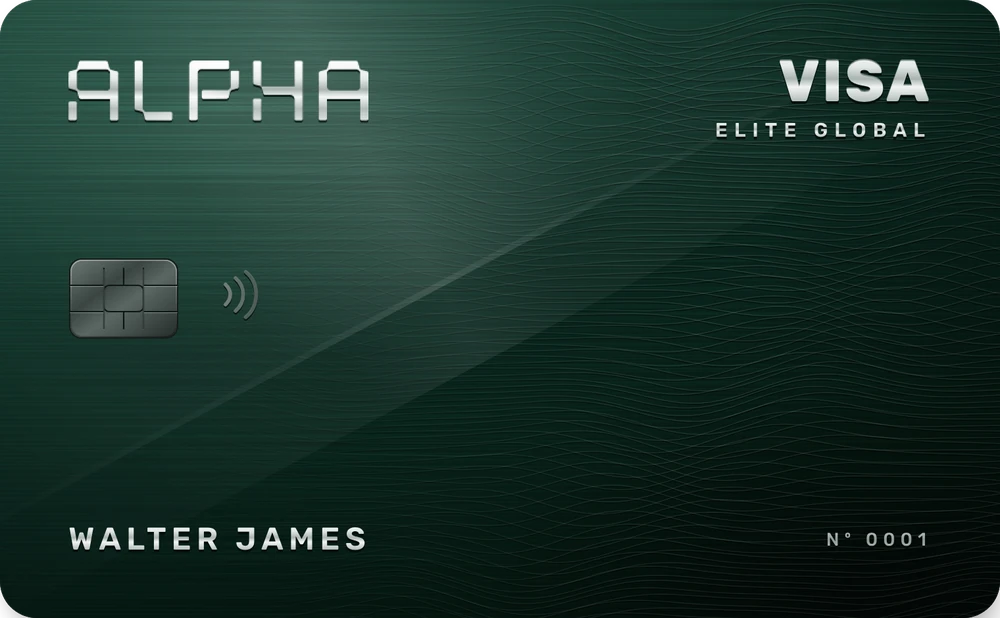
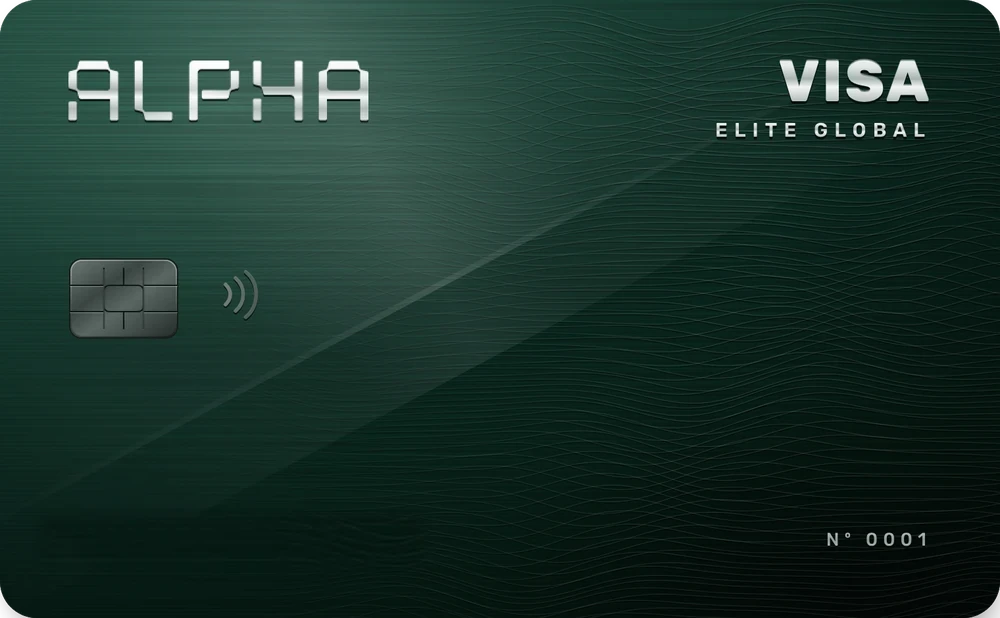
Card artwork without sample name; Sovereign fee line narrowed; globe city list

Changed region(s): [[0.062, 0.8301, 0.372, 0.8916]]

diff --git a/index.html b/index.html
@@ -2,7 +2,7 @@
 <title>Alpha · One account. Anywhere on earth.</title>
 <meta name="description" content="Escape the banking system. Take full control of your money: US dollars in any country, protection from inflation, one global card and high returns on your savings. Launching 2027.">
 <link rel="canonical" href="https://alpha.com.ky/">
-<script type="application/ld+json">{"@context": "https://schema.org", "@type": "FAQPage", "mainEntity": [{"@type": "Question", "name": "What is Alpha?", "acceptedAnswer": {"@type": "Answer", "text": "Alpha is one account that works anywhere on earth. It holds your money as fully reserved US dollars that only you control, with a card accepted in every country, free instant payments between Alpha accounts, local money in and out, and Earn on what you hold. It lets you escape the banking system and take full control of your money. Launching 2027."}}, {"@type": "Question", "name": "Can Alpha freeze, move or lend my money?", "acceptedAnswer": {"@type": "Answer", "text": "No. Your Spend balance sits in your own account under keys only you hold. Alpha has no master key, so nobody at Alpha can move, freeze, take or lend what you hold in Spend. Alpha can pause the services it runs, such as the card, local money or Earn, in an emergency, and must answer lawful requests through a logged process that needs several keyholders."}}, {"@type": "Question", "name": "Where is my money held?", "acceptedAnswer": {"@type": "Answer", "text": "As regulated, fully reserved digital dollars, backed one-to-one by US dollars and short-dated US government debt and redeemable at any time. Your balance stays in dollars wherever you live, which protects it from inflation and devaluation in your own currency, and converts to local money only at the moment you spend or send, at a rate you see first."}}, {"@type": "Question", "name": "Where does the card work and what does it cost?", "acceptedAnswer": {"@type": "Answer", "text": "The Alpha card is accepted in 195 countries and adds to your phone wallet. Elite Global is free and includes the card, free payments between Alpha accounts, local money in and out at 0.25%, Earn, pots, invoices and $AG rewards. Platinum Global is US$24.99 a month, or free if you hold US$1,000 of $AG, with a metal card, 0% Alpha fee on local money and higher Earn rate and limits. Sovereign Global is US$199 a month, or free if you hold US$25,000 of $AG, with 0% Alpha fee on everything, the highest Earn rate and limits, a heavy numbered card, a named person at Alpha and first access to every new country. Business plans start at US$199 a month."}}, {"@type": "Question", "name": "When does Alpha launch and how do I join?", "acceptedAnswer": {"@type": "Answer", "text": "Alpha launches in 2027, country by country, founding members first. Join the waitlist at alpha.com.ky: it takes 20 seconds, you get your place in the queue instantly, and each friend who joins through your link moves you up 50 places and earns you 25 $AG when you both open an account. The first 10,000 founding members get Platinum Global free for their first year."}}]}</script>
+<script type="application/ld+json">{"@context": "https://schema.org", "@type": "FAQPage", "mainEntity": [{"@type": "Question", "name": "What is Alpha?", "acceptedAnswer": {"@type": "Answer", "text": "Alpha is one account that works anywhere on earth. It holds your money as fully reserved US dollars that only you control, with a card accepted in every country, free instant payments between Alpha accounts, local money in and out, and Earn on what you hold. It lets you escape the banking system and take full control of your money. Launching 2027."}}, {"@type": "Question", "name": "Can Alpha freeze, move or lend my money?", "acceptedAnswer": {"@type": "Answer", "text": "No. Your Spend balance sits in your own account under keys only you hold. Alpha has no master key, so nobody at Alpha can move, freeze, take or lend what you hold in Spend. Alpha can pause the services it runs, such as the card, local money or Earn, in an emergency, and must answer lawful requests through a logged process that needs several keyholders."}}, {"@type": "Question", "name": "Where is my money held?", "acceptedAnswer": {"@type": "Answer", "text": "As regulated, fully reserved digital dollars, backed one-to-one by US dollars and short-dated US government debt and redeemable at any time. Your balance stays in dollars wherever you live, which protects it from inflation and devaluation in your own currency, and converts to local money only at the moment you spend or send, at a rate you see first."}}, {"@type": "Question", "name": "Where does the card work and what does it cost?", "acceptedAnswer": {"@type": "Answer", "text": "The Alpha card is accepted in 195 countries and adds to your phone wallet. Elite Global is free and includes the card, free payments between Alpha accounts, local money in and out at 0.25%, Earn, pots, invoices and $AG rewards. Platinum Global is US$24.99 a month, or free if you hold US$1,000 of $AG, with a metal card, 0% Alpha fee on local money and higher Earn rate and limits. Sovereign Global is US$199 a month, or free if you hold US$25,000 of $AG, with 0% Alpha fee on local money and bank invoices, the highest Earn rate and limits, a heavy numbered card, a named person at Alpha and first access to every new country. Business plans start at US$199 a month."}}, {"@type": "Question", "name": "When does Alpha launch and how do I join?", "acceptedAnswer": {"@type": "Answer", "text": "Alpha launches in 2027, country by country, founding members first. Join the waitlist at alpha.com.ky: it takes 20 seconds, you get your place in the queue instantly, and each friend who joins through your link moves you up 50 places and earns you 25 $AG when you both open an account. The first 10,000 founding members get Platinum Global free for their first year."}}]}</script>
 <script type="application/ld+json">{"@context": "https://schema.org", "@type": "Organization", "name": "Alpha", "legalName": "Alpha Corp", "url": "https://alpha.com.ky/", "logo": "https://alpha.com.ky/icon-512.png", "slogan": "One account. Anywhere on earth.", "description": "Escape the banking system. Take full control of your money: US dollars in any country, protection from inflation, one global card and high returns on your savings. Launching 2027.", "email": "hello@alpha.com.ky", "address": {"@type": "PostalAddress", "addressCountry": "KY"}, "contactPoint": [{"@type": "ContactPoint", "contactType": "customer support", "email": "support@alpha.com.ky"}, {"@type": "ContactPoint", "contactType": "public relations", "email": "press@alpha.com.ky"}]}</script><script type="application/ld+json">{"@context": "https://schema.org", "@type": "WebSite", "name": "Alpha", "url": "https://alpha.com.ky/"}</script>
 <meta name="theme-color" content="#050C0A">
 <meta property="og:type" content="website"><meta property="og:site_name" content="Alpha"><meta property="og:title" content="Alpha — One account. Anywhere on earth."><meta property="og:description" content="Escape the banking system. Take full control of your money: US dollars in any country, one global card, high returns on your savings."><meta property="og:url" content="https://alpha.com.ky/"><meta property="og:image" content="https://alpha.com.ky/og.png"><meta property="og:image:width" content="1200"><meta property="og:image:height" content="630">
@@ -840,7 +840,7 @@ footer a{color:var(--muted);text-decoration:none}
   <div class="plans">
    <div class="plan rv d1"><h3>Elite Global</h3><div class="price">Free</div><ul><li>Premium Elite Global card</li><li>Free payments between Alpha accounts</li><li>Local money in and out at 0.25%</li><li>Earn, pots, invoices, $AG rewards</li></ul></div>
    <div class="plan hi rv d2"><h3>Platinum Global</h3><div class="price">US$24.99<small> / month</small></div><ul><li>Metal card</li><li>0% Alpha fee on local money</li><li>Higher Earn rate and limits</li><li>Or hold US$1,000 of $AG instead of paying</li></ul></div>
-   <div class="plan rv d3"><h3>Sovereign Global</h3><div class="price">US$199<small> / month</small></div><ul><li>Heavy numbered card, engraved to you</li><li>0% Alpha fee on everything</li><li>The highest Earn rate and limits</li><li>A named person at Alpha, any hour</li><li>First into every new country</li><li>Or hold US$25,000 of $AG instead of paying</li></ul></div>
+   <div class="plan rv d3"><h3>Sovereign Global</h3><div class="price">US$199<small> / month</small></div><ul><li>Heavy numbered card, engraved to you</li><li>0% Alpha fee on local money and bank invoices</li><li>The highest Earn rate and limits</li><li>A named person at Alpha, any hour</li><li>First into every new country</li><li>Or hold US$25,000 of $AG instead of paying</li></ul></div>
   </div>
  </section>
 
@@ -965,7 +965,7 @@ if(!RM){(function spin(t){if(!drag){var base=Math.round(ry/180)*180,idle=14+Math
 var DPR=Math.min(2,devicePixelRatio||1);
 function ll(lat,lon){var la=lat*Math.PI/180,lo=lon*Math.PI/180;return [Math.cos(la)*Math.cos(lo),Math.sin(la),-Math.cos(la)*Math.sin(lo)]}
 var TILT=0.38;function tiltP(p,T){var cs=Math.cos(T),sn=Math.sin(T);return [p[0],p[1]*cs-p[2]*sn,p[1]*sn+p[2]*cs]}
-var hubs=[['London',51.5,-0.1],['New York',40.7,-74],['Washington',38.9,-77],['Los Angeles',34.1,-118.2],['Paris',48.9,2.4],['Madrid',40.4,-3.7],['Berlin',52.5,13.4],['Lisbon',38.7,-9.1],['Grand Cayman',19.3,-81.4],['Nassau',25.1,-77.3],['Bangkok',13.8,100.5],['Sydney',-33.9,151.2],['Perth',-31.9,115.9],['Singapore',1.3,103.8],['Hong Kong',22.3,114.2],['Shanghai',31.2,121.5],['Lagos',6.5,3.4],['São Paulo',-23.5,-46.6],['Mumbai',19.1,72.9],['Dubai',25.2,55.3],['Nairobi',-1.3,36.8],['Toronto',43.7,-79.4],['Mexico City',19.4,-99.1],['Cape Town',-33.9,18.4],['Tokyo',35.7,139.7],['Buenos Aires',-34.6,-58.4],['Seoul',37.6,127],['Moscow',55.8,37.6],['Taipei',25,121.5],['Jakarta',-6.2,106.8],['Manila',14.6,121],['Kuala Lumpur',3.1,101.7],['Ho Chi Minh City',10.8,106.7],['New Delhi',28.6,77.2],['Riyadh',24.7,46.7],['Tel Aviv',32.1,34.8],['Istanbul',41,28.9],['Johannesburg',-26.2,28],['Cairo',30,31.2],['Accra',5.6,-0.2],['Zurich',47.4,8.5],['Amsterdam',52.4,4.9],['Milan',45.5,9.2],['Stockholm',59.3,18.1],['Dublin',53.3,-6.3],['Miami',25.8,-80.2],['Chicago',41.9,-87.6],['San Francisco',37.8,-122.4],['Vancouver',49.3,-123.1],['Panama City',9,-79.5],['Bogotá',4.7,-74.1],['Lima',-12,-77],['Santiago',-33.4,-70.7],['Auckland',-36.8,174.8],['Melbourne',-37.8,145],['Beijing',39.9,116.4]];
+var hubs=[['London',51.5,-0.1],['New York',40.7,-74],['Washington',38.9,-77],['Los Angeles',34.1,-118.2],['Paris',48.9,2.4],['Madrid',40.4,-3.7],['Berlin',52.5,13.4],['Lisbon',38.7,-9.1],['Grand Cayman',19.3,-81.4],['Nassau',25.1,-77.3],['Bangkok',13.8,100.5],['Sydney',-33.9,151.2],['Perth',-31.9,115.9],['Singapore',1.3,103.8],['Hong Kong',22.3,114.2],['Shanghai',31.2,121.5],['Lagos',6.5,3.4],['São Paulo',-23.5,-46.6],['Mumbai',19.1,72.9],['Dubai',25.2,55.3],['Nairobi',-1.3,36.8],['Toronto',43.7,-79.4],['Cape Town',-33.9,18.4],['Tokyo',35.7,139.7],['Buenos Aires',-34.6,-58.4],['Seoul',37.6,127],['Moscow',55.8,37.6],['Taipei',25,121.5],['Jakarta',-6.2,106.8],['Manila',14.6,121],['Kuala Lumpur',3.1,101.7],['Ho Chi Minh City',10.8,106.7],['New Delhi',28.6,77.2],['Riyadh',24.7,46.7],['Tel Aviv',32.1,34.8],['Istanbul',41,28.9],['Johannesburg',-26.2,28],['Cairo',30,31.2],['Accra',5.6,-0.2],['Zurich',47.4,8.5],['Amsterdam',52.4,4.9],['Milan',45.5,9.2],['Stockholm',59.3,18.1],['Dublin',53.3,-6.3],['Miami',25.8,-80.2],['Chicago',41.9,-87.6],['San Francisco',37.8,-122.4],['Vancouver',49.3,-123.1],['Panama City',9,-79.5],['Bogotá',4.7,-74.1],['Lima',-12,-77],['Santiago',-33.4,-70.7],['Auckland',-36.8,174.8],['Melbourne',-37.8,145],['Beijing',39.9,116.4]];
 var caps=[['Kyiv',50.5,30.5],['Minsk',53.9,27.6],['Warsaw',52.2,21],['Prague',50.1,14.4],['Vienna',48.2,16.4],['Bratislava',48.1,17.1],['Budapest',47.5,19],['Bucharest',44.4,26.1],['Sofia',42.7,23.3],['Belgrade',44.8,20.5],['Zagreb',45.8,16],['Ljubljana',46.1,14.5],['Sarajevo',43.9,18.4],['Podgorica',42.4,19.3],['Skopje',42,21.4],['Tirana',41.3,19.8],['Pristina',42.7,21.2],['Athens',38,23.7],['Nicosia',35.2,33.4],['Ankara',39.9,32.9],['Tbilisi',41.7,44.8],['Yerevan',40.2,44.5],['Baku',40.4,49.9],['Chișinău',47,28.9],['Vilnius',54.7,25.3],['Riga',56.9,24.1],['Tallinn',59.4,24.8],['Helsinki',60.2,24.9],['Oslo',59.9,10.8],['Copenhagen',55.7,12.6],['Reykjavík',64.1,-21.9],['Brussels',50.9,4.4],['Luxembourg',49.6,6.1],['Bern',46.9,7.4],['Vaduz',47.1,9.5],['Rome',41.9,12.5],['Valletta',35.9,14.5],['Monaco',43.7,7.4],['Andorra la Vella',42.5,1.5],['San Marino',43.9,12.4],['Rabat',34,-6.8],['Algiers',36.8,3.1],['Tunis',36.8,10.2],['Tripoli',32.9,13.2],['Khartoum',15.6,32.5],['Juba',4.9,31.6],['Addis Ababa',9,38.7],['Asmara',15.3,38.9],['Djibouti',11.6,43.1],['Mogadishu',2,45.3],['Kampala',0.3,32.6],['Kigali',-1.9,30.1],['Gitega',-3.4,29.9],['Dodoma',-6.2,35.7],['Lusaka',-15.4,28.3],['Harare',-17.8,31],['Lilongwe',-14,33.8],['Maputo',-25.9,32.6],['Antananarivo',-18.9,47.5],['Port Louis',-20.2,57.5],['Victoria',-4.6,55.5],['Moroni',-11.7,43.3],['Pretoria',-25.7,28.2],['Gaborone',-24.7,25.9],['Windhoek',-22.6,17.1],['Maseru',-29.3,27.5],['Mbabane',-26.3,31.1],['Luanda',-8.8,13.2],['Kinshasa',-4.3,15.3],['Brazzaville',-4.2,15.2],['Libreville',0.4,9.5],['Malabo',3.8,8.8],['Yaoundé',3.9,11.5],['Bangui',4.4,18.6],["N'Djamena",12.1,15],['Abuja',9.1,7.5],['Niamey',13.5,2.1],['Bamako',12.6,-8],['Ouagadougou',12.4,-1.5],['Lomé',6.1,1.2],['Porto-Novo',6.5,2.6],['Yamoussoukro',6.8,-5.3],['Monrovia',6.3,-10.8],['Freetown',8.5,-13.2],['Conakry',9.5,-13.7],['Bissau',11.9,-15.6],['Dakar',14.7,-17.4],['Banjul',13.5,-16.6],['Nouakchott',18.1,-16],['Praia',14.9,-23.5],['São Tomé',0.3,6.7],['Baghdad',33.3,44.4],['Tehran',35.7,51.4],['Kuwait City',29.4,48],['Manama',26.2,50.6],['Doha',25.3,51.5],['Abu Dhabi',24.5,54.4],['Muscat',23.6,58.5],["Sana'a",15.4,44.2],['Amman',32,35.9],['Damascus',33.5,36.3],['Beirut',33.9,35.5],['Kabul',34.5,69.2],['Islamabad',33.7,73],['Tashkent',41.3,69.3],['Astana',51.2,71.4],['Bishkek',42.9,74.6],['Dushanbe',38.6,68.8],['Ashgabat',37.9,58.4],['Kathmandu',27.7,85.3],['Thimphu',27.5,89.6],['Dhaka',23.8,90.4],['Colombo',6.9,79.9],['Malé',4.2,73.5],['Naypyidaw',19.8,96.1],['Vientiane',17.9,102.6],['Phnom Penh',11.6,104.9],['Hanoi',21,105.8],['Ulaanbaatar',47.9,106.9],['Pyongyang',39,125.8],['Bandar Seri Begawan',4.9,114.9],['Dili',-8.6,125.6],['Canberra',-35.3,149.1],['Wellington',-41.3,174.8],['Port Moresby',-9.4,147.2],['Suva',-18.1,178.4],['Honiara',-9.4,160],['Port Vila',-17.7,168.3],["Nuku'alofa",-21.1,-175.2],['Apia',-13.8,-171.8],['Tarawa',1.4,173],['Majuro',7.1,171.4],['Palikir',6.9,158.2],['Ngerulmud',7.5,134.6],['Funafuti',-8.5,179.2],['Yaren',-0.5,166.9],['Ottawa',45.4,-75.7],['Havana',23.1,-82.4],['Kingston',18,-76.8],['Port-au-Prince',18.5,-72.3],['Santo Domingo',18.5,-69.9],['Belmopan',17.3,-88.8],['Guatemala City',14.6,-90.5],['San Salvador',13.7,-89.2],['Tegucigalpa',14.1,-87.2],['Managua',12.1,-86.3],['San José',9.9,-84.1],['Caracas',10.5,-66.9],['Georgetown',6.8,-58.2],['Paramaribo',5.9,-55.2],['Quito',-0.2,-78.5],['La Paz',-16.5,-68.1],['Asunción',-25.3,-57.6],['Montevideo',-34.9,-56.2],['Brasília',-15.8,-47.9],['Bridgetown',13.1,-59.6],['Port of Spain',10.7,-61.5],['Castries',14,-61],['Kingstown',13.2,-61.2],["St George's",12.1,-61.8],['Roseau',15.3,-61.4],["St John's",17.1,-61.8],['Basseterre',17.3,-62.7]];
 var cities=hubs.map(function(c){return {n:c[0],v:ll(c[1],c[2]),h:1,ph:Math.random()*6.28}}).concat(caps.map(function(c){return {n:c[0],v:ll(c[1],c[2]),h:0,ph:Math.random()*6.28}}));
[1 lines of base64/hex data omitted]

diff --git a/faq.html b/faq.html
@@ -541,7 +541,7 @@ footer a{color:var(--muted);text-decoration:none}
 @media (max-width:760px){.fwrap{grid-template-columns:1fr;gap:16px}.fnav{position:static;flex-direction:row;flex-wrap:wrap;gap:6px}.fnav a{font-size:12.5px;padding:7px 11px;border-color:rgba(255,255,255,.08)}.fgroup{margin-bottom:26px}.fask{padding:20px}}
 </style>
 <style>.sub main{padding-top:40px;min-height:70vh}.sub section{padding-top:20px}body::after{display:none}</style>
-<script type="application/ld+json">{"@context": "https://schema.org", "@type": "FAQPage", "mainEntity": [{"@type": "Question", "name": "How is Alpha different from my bank?", "acceptedAnswer": {"@type": "Answer", "text": "Alpha does everything you use a bank for: hold your money, pay, get paid, earn. The difference is where your money lives. At a bank it is a deposit on their balance sheet, which they lend out and can freeze. On Alpha it is held as fully reserved digital dollars, redeemable one-to-one, in an account only you control. Nobody, including Alpha, can read it, move it or lend it."}}, {"@type": "Question", "name": "Where is my money, exactly?", "acceptedAnswer": {"@type": "Answer", "text": "In your own account on the ledger, held as regulated, fully reserved digital dollars backed one-to-one by US dollars and short-dated US government debt. Alpha never holds it. The ledger proves every second that it holds every dollar it owes, and anyone can check."}}, {"@type": "Question", "name": "Can Alpha freeze, move or lend my money?", "acceptedAnswer": {"@type": "Answer", "text": "No. Your Spend balance sits under keys only you hold, and Alpha has no master key. Alpha can pause the services it runs, the card, local money or Earn, in an emergency, and never your Spend balance."}}, {"@type": "Question", "name": "Can I get my money out whenever I want?", "acceptedAnswer": {"@type": "Answer", "text": "Yes. Move it anywhere, any time, with your passkey. You never need Alpha's permission."}}, {"@type": "Question", "name": "Why dollars?", "acceptedAnswer": {"@type": "Answer", "text": "Because the dollar is the currency the world settles in. Your balance stays in dollars wherever you live, so inflation or a falling currency at home doesn't touch it, and it converts to local money only at the moment you spend or send, at a rate you see first."}}, {"@type": "Question", "name": "Does my money earn anything?", "acceptedAnswer": {"@type": "Answer", "text": "Yes, if you opt in. Earn pays a floating rate on fully reserved dollars, and your money is back in Spend within 48 hours whenever you ask. Platinum Global and Sovereign Global carry higher Earn rates and limits."}}, {"@type": "Question", "name": "Can Alpha see my payments?", "acceptedAnswer": {"@type": "Answer", "text": "No. Your balance and your payments are sealed on your phone before they leave it, and unlock only on your own devices. You hold the only key to the sealed record. Not a partner, not a bank, not Alpha can read it."}}, {"@type": "Question", "name": "What if I lose my phone?", "acceptedAnswer": {"@type": "Answer", "text": "Sign in on a new phone with Face ID and a recovery contact. Lose every device and any two of your three guardians, your backup key, a person you trust and Alpha, can let you back in after a 72-hour delay you can stop from any device if it wasn't you."}}, {"@type": "Question", "name": "Is there a password?", "acceptedAnswer": {"@type": "Answer", "text": "No. A passkey on your own phone, approved with Face ID, authorises every payment. There is no password to leak, no reset link to phish and no code by text to intercept. Sending to someone new asks for Face ID a second time."}}, {"@type": "Question", "name": "What happens if someone steals my card?", "acceptedAnswer": {"@type": "Answer", "text": "Freeze it in one tap. The card spends only from its own Card balance, topped up from Spend under a limit you set, so the rest of your money is never exposed."}}, {"@type": "Question", "name": "What does it cost?", "acceptedAnswer": {"@type": "Answer", "text": "The account and card are free. Payments between Alpha accounts are free. Local money in or out costs 0.25% at the real rate, or 0% on Platinum Global and Sovereign Global. There is no foreign card fee. Every $AG you earn is valued at US$1 against any Alpha fee."}}, {"@type": "Question", "name": "What are the plans?", "acceptedAnswer": {"@type": "Answer", "text": "Elite Global is free: the card, free payments, Earn, pots, invoices and $AG rewards. Platinum Global is US$24.99 a month, or free if you hold US$1,000 of $AG: a metal card, 0% Alpha fee on local money, higher Earn rate and limits. Sovereign Global is US$199 a month, or free if you hold US$25,000 of $AG: a heavy numbered card engraved to you, 0% Alpha fee on everything, the highest Earn rate and limits, a named person at Alpha any hour, and first access to every new country."}}, {"@type": "Question", "name": "What is $AG?", "acceptedAnswer": {"@type": "Answer", "text": "Alpha's reward. You earn it on card spending and for bringing friends. Every $AG is valued at US$1 across Alpha and pays your fees or your plan. It is earned, not sold, and it never expires."}}, {"@type": "Question", "name": "Is there a business account?", "acceptedAnswer": {"@type": "Answer", "text": "Yes. Business is US$199 a month for up to five people with team cards, invoices, bulk payouts and roles. Scale is US$999 a month for up to 25 people with approvals above a threshold, accounting exports, API and priority support. Enterprise is custom, with key rotation, a custody policy and dedicated support."}}, {"@type": "Question", "name": "Which countries?", "acceptedAnswer": {"@type": "Answer", "text": "The card works everywhere the card network is accepted, which is every country on earth, and payments between Alpha accounts reach any country in under a second. Opening an account depends on your country of residence; join the waitlist and we'll tell you when yours is live."}}, {"@type": "Question", "name": "How fast is a payment?", "acceptedAnswer": {"@type": "Answer", "text": "Between Alpha accounts, under a second, any hour of any day. To an account outside Alpha, as fast as the receiving system allows, with the exact amount shown before you approve."}}, {"@type": "Question", "name": "How do I get paid?", "acceptedAnswer": {"@type": "Answer", "text": "Send an invoice, share your @handle, or give out your own account details. Clients pay by bank or card in their own currency and you receive dollars, same day. Payments from other Alpha accounts land instantly and free."}}, {"@type": "Question", "name": "Can I pay bills and rent in my own currency?", "acceptedAnswer": {"@type": "Answer", "text": "Yes. Local money goes out to any local bank account at a rate you see before you tap, 0.25% on Elite Global and 0% on the paid plans. Your balance stays in dollars until the moment you send."}}, {"@type": "Question", "name": "When does it launch?", "acceptedAnswer": {"@type": "Answer", "text": "2027, country by country. Founding members first."}}, {"@type": "Question", "name": "How does the waitlist work?", "acceptedAnswer": {"@type": "Answer", "text": "Join in 20 seconds and you get your place in the queue instantly, plus an invite link. Each friend who joins through it moves you up 50 places and earns you 25 $AG when you both open an account. The first 10,000 founding members get Platinum Global free for their first year."}}]}</script></head><body class="sub">
+<script type="application/ld+json">{"@context": "https://schema.org", "@type": "FAQPage", "mainEntity": [{"@type": "Question", "name": "How is Alpha different from my bank?", "acceptedAnswer": {"@type": "Answer", "text": "Alpha does everything you use a bank for: hold your money, pay, get paid, earn. The difference is where your money lives. At a bank it is a deposit on their balance sheet, which they lend out and can freeze. On Alpha it is held as fully reserved digital dollars, redeemable one-to-one, in an account only you control. Nobody, including Alpha, can read it, move it or lend it."}}, {"@type": "Question", "name": "Where is my money, exactly?", "acceptedAnswer": {"@type": "Answer", "text": "In your own account on the ledger, held as regulated, fully reserved digital dollars backed one-to-one by US dollars and short-dated US government debt. Alpha never holds it. The ledger proves every second that it holds every dollar it owes, and anyone can check."}}, {"@type": "Question", "name": "Can Alpha freeze, move or lend my money?", "acceptedAnswer": {"@type": "Answer", "text": "No. Your Spend balance sits under keys only you hold, and Alpha has no master key. Alpha can pause the services it runs, the card, local money or Earn, in an emergency, and never your Spend balance."}}, {"@type": "Question", "name": "Can I get my money out whenever I want?", "acceptedAnswer": {"@type": "Answer", "text": "Yes. Move it anywhere, any time, with your passkey. You never need Alpha's permission."}}, {"@type": "Question", "name": "Why dollars?", "acceptedAnswer": {"@type": "Answer", "text": "Because the dollar is the currency the world settles in. Your balance stays in dollars wherever you live, so inflation or a falling currency at home doesn't touch it, and it converts to local money only at the moment you spend or send, at a rate you see first."}}, {"@type": "Question", "name": "Does my money earn anything?", "acceptedAnswer": {"@type": "Answer", "text": "Yes, if you opt in. Earn pays a floating rate on fully reserved dollars, and your money is back in Spend within 48 hours whenever you ask. Platinum Global and Sovereign Global carry higher Earn rates and limits."}}, {"@type": "Question", "name": "Can Alpha see my payments?", "acceptedAnswer": {"@type": "Answer", "text": "No. Your balance and your payments are sealed on your phone before they leave it, and unlock only on your own devices. You hold the only key to the sealed record. Not a partner, not a bank, not Alpha can read it."}}, {"@type": "Question", "name": "What if I lose my phone?", "acceptedAnswer": {"@type": "Answer", "text": "Sign in on a new phone with Face ID and a recovery contact. Lose every device and any two of your three guardians, your backup key, a person you trust and Alpha, can let you back in after a 72-hour delay you can stop from any device if it wasn't you."}}, {"@type": "Question", "name": "Is there a password?", "acceptedAnswer": {"@type": "Answer", "text": "No. A passkey on your own phone, approved with Face ID, authorises every payment. There is no password to leak, no reset link to phish and no code by text to intercept. Sending to someone new asks for Face ID a second time."}}, {"@type": "Question", "name": "What happens if someone steals my card?", "acceptedAnswer": {"@type": "Answer", "text": "Freeze it in one tap. The card spends only from its own Card balance, topped up from Spend under a limit you set, so the rest of your money is never exposed."}}, {"@type": "Question", "name": "What does it cost?", "acceptedAnswer": {"@type": "Answer", "text": "The account and card are free. Payments between Alpha accounts are free. Local money in or out costs 0.25% at the real rate, or 0% on Platinum Global and Sovereign Global. There is no foreign card fee. Every $AG you earn is valued at US$1 against any Alpha fee."}}, {"@type": "Question", "name": "What are the plans?", "acceptedAnswer": {"@type": "Answer", "text": "Elite Global is free: the card, free payments, Earn, pots, invoices and $AG rewards. Platinum Global is US$24.99 a month, or free if you hold US$1,000 of $AG: a metal card, 0% Alpha fee on local money, higher Earn rate and limits. Sovereign Global is US$199 a month, or free if you hold US$25,000 of $AG: a heavy numbered card engraved to you, 0% Alpha fee on local money and bank invoices, the highest Earn rate and limits, a named person at Alpha any hour, and first access to every new country."}}, {"@type": "Question", "name": "What is $AG?", "acceptedAnswer": {"@type": "Answer", "text": "Alpha's reward. You earn it on card spending and for bringing friends. Every $AG is valued at US$1 across Alpha and pays your fees or your plan. It is earned, not sold, and it never expires."}}, {"@type": "Question", "name": "Is there a business account?", "acceptedAnswer": {"@type": "Answer", "text": "Yes. Business is US$199 a month for up to five people with team cards, invoices, bulk payouts and roles. Scale is US$999 a month for up to 25 people with approvals above a threshold, accounting exports, API and priority support. Enterprise is custom, with key rotation, a custody policy and dedicated support."}}, {"@type": "Question", "name": "Which countries?", "acceptedAnswer": {"@type": "Answer", "text": "The card works everywhere the card network is accepted, which is every country on earth, and payments between Alpha accounts reach any country in under a second. Opening an account depends on your country of residence; join the waitlist and we'll tell you when yours is live."}}, {"@type": "Question", "name": "How fast is a payment?", "acceptedAnswer": {"@type": "Answer", "text": "Between Alpha accounts, under a second, any hour of any day. To an account outside Alpha, as fast as the receiving system allows, with the exact amount shown before you approve."}}, {"@type": "Question", "name": "How do I get paid?", "acceptedAnswer": {"@type": "Answer", "text": "Send an invoice, share your @handle, or give out your own account details. Clients pay by bank or card in their own currency and you receive dollars, same day. Payments from other Alpha accounts land instantly and free."}}, {"@type": "Question", "name": "Can I pay bills and rent in my own currency?", "acceptedAnswer": {"@type": "Answer", "text": "Yes. Local money goes out to any local bank account at a rate you see before you tap, 0.25% on Elite Global and 0% on the paid plans. Your balance stays in dollars until the moment you send."}}, {"@type": "Question", "name": "When does it launch?", "acceptedAnswer": {"@type": "Answer", "text": "2027, country by country. Founding members first."}}, {"@type": "Question", "name": "How does the waitlist work?", "acceptedAnswer": {"@type": "Answer", "text": "Join in 20 seconds and you get your place in the queue instantly, plus an invite link. Each friend who joins through it moves you up 50 places and earns you 25 $AG when you both open an account. The first 10,000 founding members get Platinum Global free for their first year."}}]}</script></head><body class="sub">
 <header><div class="wrap"><a href="index.html" class="wm" role="img" aria-label="Alpha"></a><nav class="nav" aria-label="Sections"><a href="index.html#app-s">Product</a><a href="index.html#biz-s">Business</a><a href="index.html#sec-s">Security</a><a href="faq.html">FAQ</a><a href="careers.html">Careers</a></nav><span class="spacer"></span><a class="btn sm ghost" href="index.html?login=1">Log in</a><a class="btn sm" href="index.html#join">Join the waitlist</a><button class="burger" id="burger" aria-label="Menu" aria-expanded="false"><i></i><i></i><i></i></button></div>
 <div class="mnav" id="mnav"><a href="index.html#app-s">Product</a><a href="index.html#biz-s">Business</a><a href="index.html#sec-s">Security</a><a href="faq.html">FAQ</a><a href="careers.html">Careers</a><a href="index.html?login=1">Log in</a><a href="index.html#join" class="hi">Join the waitlist</a></div></header>
 <main class="wrap" id="top">
@@ -554,7 +554,7 @@ footer a{color:var(--muted);text-decoration:none}
    <div class="fbody">
 <div class="fgroup" id="money"><h3>Your money</h3><div class="faq"><details open><summary>How is Alpha different from my bank?</summary><p>Alpha does everything you use a bank for: hold your money, pay, get paid, earn. The difference is where your money lives. At a bank it is a deposit on their balance sheet, which they lend out and can freeze. On Alpha it is held as fully reserved digital dollars, redeemable one-to-one, in an account only you control. Nobody, including Alpha, can read it, move it or lend it.</p></details><details><summary>Where is my money, exactly?</summary><p>In your own account on the ledger, held as regulated, fully reserved digital dollars backed one-to-one by US dollars and short-dated US government debt. Alpha never holds it. The ledger proves every second that it holds every dollar it owes, and anyone can check.</p></details><details><summary>Can Alpha freeze, move or lend my money?</summary><p>No. Your Spend balance sits under keys only you hold, and Alpha has no master key. Alpha can pause the services it runs, the card, local money or Earn, in an emergency, and never your Spend balance.</p></details><details><summary>Can I get my money out whenever I want?</summary><p>Yes. Move it anywhere, any time, with your passkey. You never need Alpha's permission.</p></details><details><summary>Why dollars?</summary><p>Because the dollar is the currency the world settles in. Your balance stays in dollars wherever you live, so inflation or a falling currency at home doesn't touch it, and it converts to local money only at the moment you spend or send, at a rate you see first.</p></details><details><summary>Does my money earn anything?</summary><p>Yes, if you opt in. Earn pays a floating rate on fully reserved dollars, and your money is back in Spend within 48 hours whenever you ask. Platinum Global and Sovereign Global carry higher Earn rates and limits.</p></details></div></div>
 <div class="fgroup" id="privacy"><h3>Privacy and security</h3><div class="faq"><details><summary>Can Alpha see my payments?</summary><p>No. Your balance and your payments are sealed on your phone before they leave it, and unlock only on your own devices. You hold the only key to the sealed record. Not a partner, not a bank, not Alpha can read it.</p></details><details><summary>What if I lose my phone?</summary><p>Sign in on a new phone with Face ID and a recovery contact. Lose every device and any two of your three guardians, your backup key, a person you trust and Alpha, can let you back in after a 72-hour delay you can stop from any device if it wasn't you.</p></details><details><summary>Is there a password?</summary><p>No. A passkey on your own phone, approved with Face ID, authorises every payment. There is no password to leak, no reset link to phish and no code by text to intercept. Sending to someone new asks for Face ID a second time.</p></details><details><summary>What happens if someone steals my card?</summary><p>Freeze it in one tap. The card spends only from its own Card balance, topped up from Spend under a limit you set, so the rest of your money is never exposed.</p></details></div></div>
-<div class="fgroup" id="prices"><h3>Prices and plans</h3><div class="faq"><details><summary>What does it cost?</summary><p>The account and card are free. Payments between Alpha accounts are free. Local money in or out costs 0.25% at the real rate, or 0% on Platinum Global and Sovereign Global. There is no foreign card fee. Every $AG you earn is valued at US$1 against any Alpha fee.</p></details><details><summary>What are the plans?</summary><p>Elite Global is free: the card, free payments, Earn, pots, invoices and $AG rewards. Platinum Global is US$24.99 a month, or free if you hold US$1,000 of $AG: a metal card, 0% Alpha fee on local money, higher Earn rate and limits. Sovereign Global is US$199 a month, or free if you hold US$25,000 of $AG: a heavy numbered card engraved to you, 0% Alpha fee on everything, the highest Earn rate and limits, a named person at Alpha any hour, and first access to every new country.</p></details><details><summary>What is $AG?</summary><p>Alpha's reward. You earn it on card spending and for bringing friends. Every $AG is valued at US$1 across Alpha and pays your fees or your plan. It is earned, not sold, and it never expires.</p></details><details><summary>Is there a business account?</summary><p>Yes. Business is US$199 a month for up to five people with team cards, invoices, bulk payouts and roles. Scale is US$999 a month for up to 25 people with approvals above a threshold, accounting exports, API and priority support. Enterprise is custom, with key rotation, a custody policy and dedicated support.</p></details></div></div>
+<div class="fgroup" id="prices"><h3>Prices and plans</h3><div class="faq"><details><summary>What does it cost?</summary><p>The account and card are free. Payments between Alpha accounts are free. Local money in or out costs 0.25% at the real rate, or 0% on Platinum Global and Sovereign Global. There is no foreign card fee. Every $AG you earn is valued at US$1 against any Alpha fee.</p></details><details><summary>What are the plans?</summary><p>Elite Global is free: the card, free payments, Earn, pots, invoices and $AG rewards. Platinum Global is US$24.99 a month, or free if you hold US$1,000 of $AG: a metal card, 0% Alpha fee on local money, higher Earn rate and limits. Sovereign Global is US$199 a month, or free if you hold US$25,000 of $AG: a heavy numbered card engraved to you, 0% Alpha fee on local money and bank invoices, the highest Earn rate and limits, a named person at Alpha any hour, and first access to every new country.</p></details><details><summary>What is $AG?</summary><p>Alpha's reward. You earn it on card spending and for bringing friends. Every $AG is valued at US$1 across Alpha and pays your fees or your plan. It is earned, not sold, and it never expires.</p></details><details><summary>Is there a business account?</summary><p>Yes. Business is US$199 a month for up to five people with team cards, invoices, bulk payouts and roles. Scale is US$999 a month for up to 25 people with approvals above a threshold, accounting exports, API and priority support. Enterprise is custom, with key rotation, a custody policy and dedicated support.</p></details></div></div>
 <div class="fgroup" id="using"><h3>Using Alpha</h3><div class="faq"><details><summary>Which countries?</summary><p>The card works everywhere the card network is accepted, which is every country on earth, and payments between Alpha accounts reach any country in under a second. Opening an account depends on your country of residence; join the waitlist and we'll tell you when yours is live.</p></details><details><summary>How fast is a payment?</summary><p>Between Alpha accounts, under a second, any hour of any day. To an account outside Alpha, as fast as the receiving system allows, with the exact amount shown before you approve.</p></details><details><summary>How do I get paid?</summary><p>Send an invoice, share your @handle, or give out your own account details. Clients pay by bank or card in their own currency and you receive dollars, same day. Payments from other Alpha accounts land instantly and free.</p></details><details><summary>Can I pay bills and rent in my own currency?</summary><p>Yes. Local money goes out to any local bank account at a rate you see before you tap, 0.25% on Elite Global and 0% on the paid plans. Your balance stays in dollars until the moment you send.</p></details></div></div>
 <div class="fgroup" id="launch"><h3>Launch</h3><div class="faq"><details><summary>When does it launch?</summary><p>2027, country by country. Founding members first.</p></details><details><summary>How does the waitlist work?</summary><p>Join in 20 seconds and you get your place in the queue instantly, plus an invite link. Each friend who joins through it moves you up 50 places and earns you 25 $AG when you both open an account. The first 10,000 founding members get Platinum Global free for their first year.</p></details></div></div>
 
